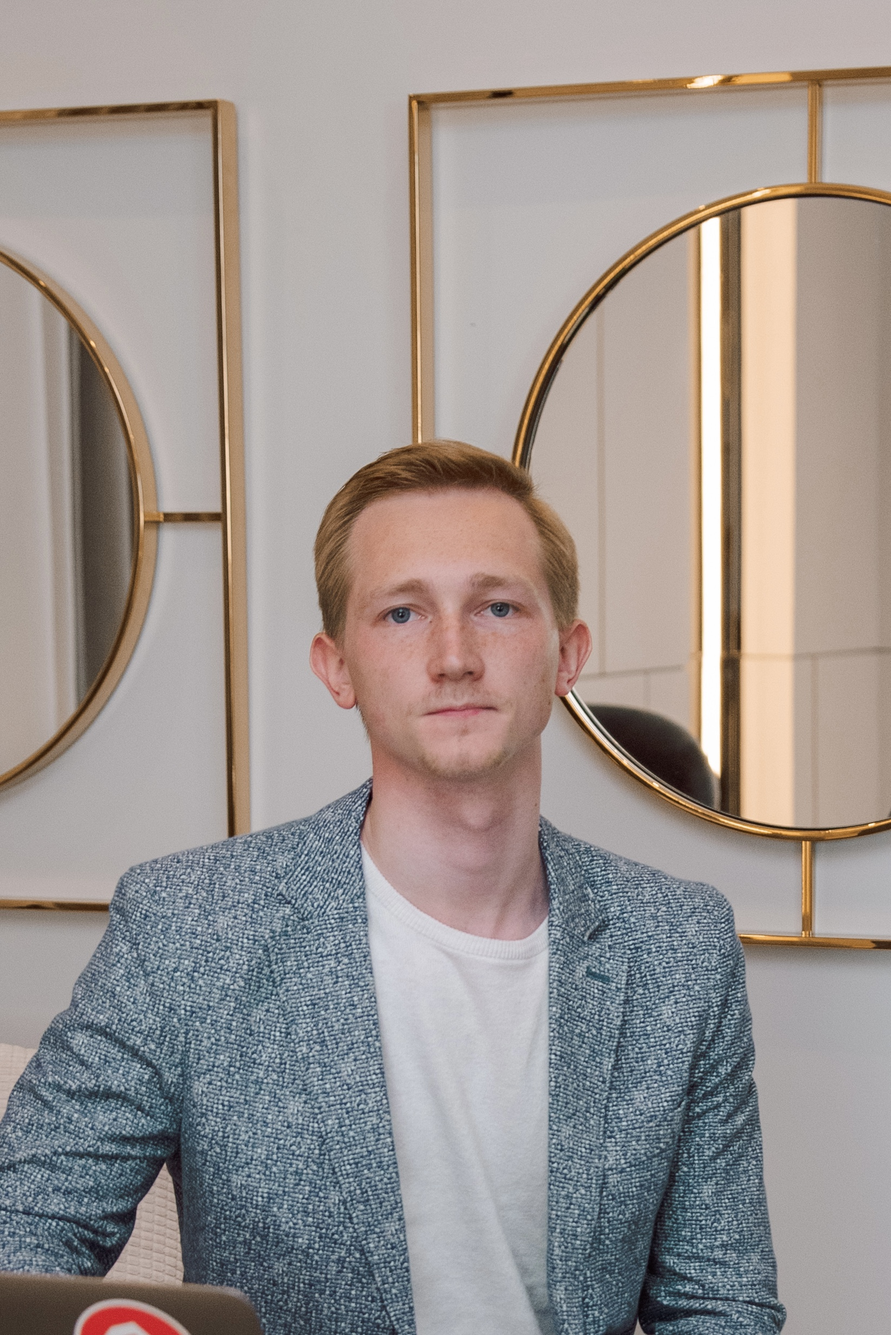
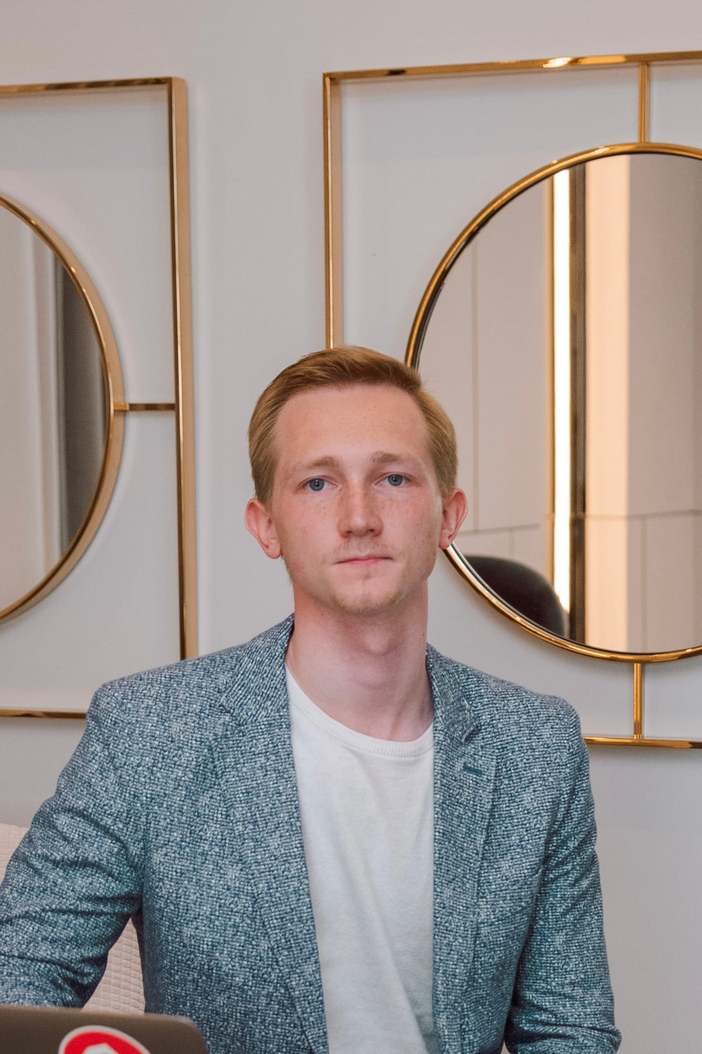
minify img

diff --git a/css/main.css b/css/main.css
@@ -445,7 +445,7 @@ body {
 }
 
 .gallery__photo3 {
-    background-image: url('../img/gallery-photo3.jpeg');
+    background-image: url('../img/gallery-photo3.jpg');
 }
 
 .gallery__photo4 {
